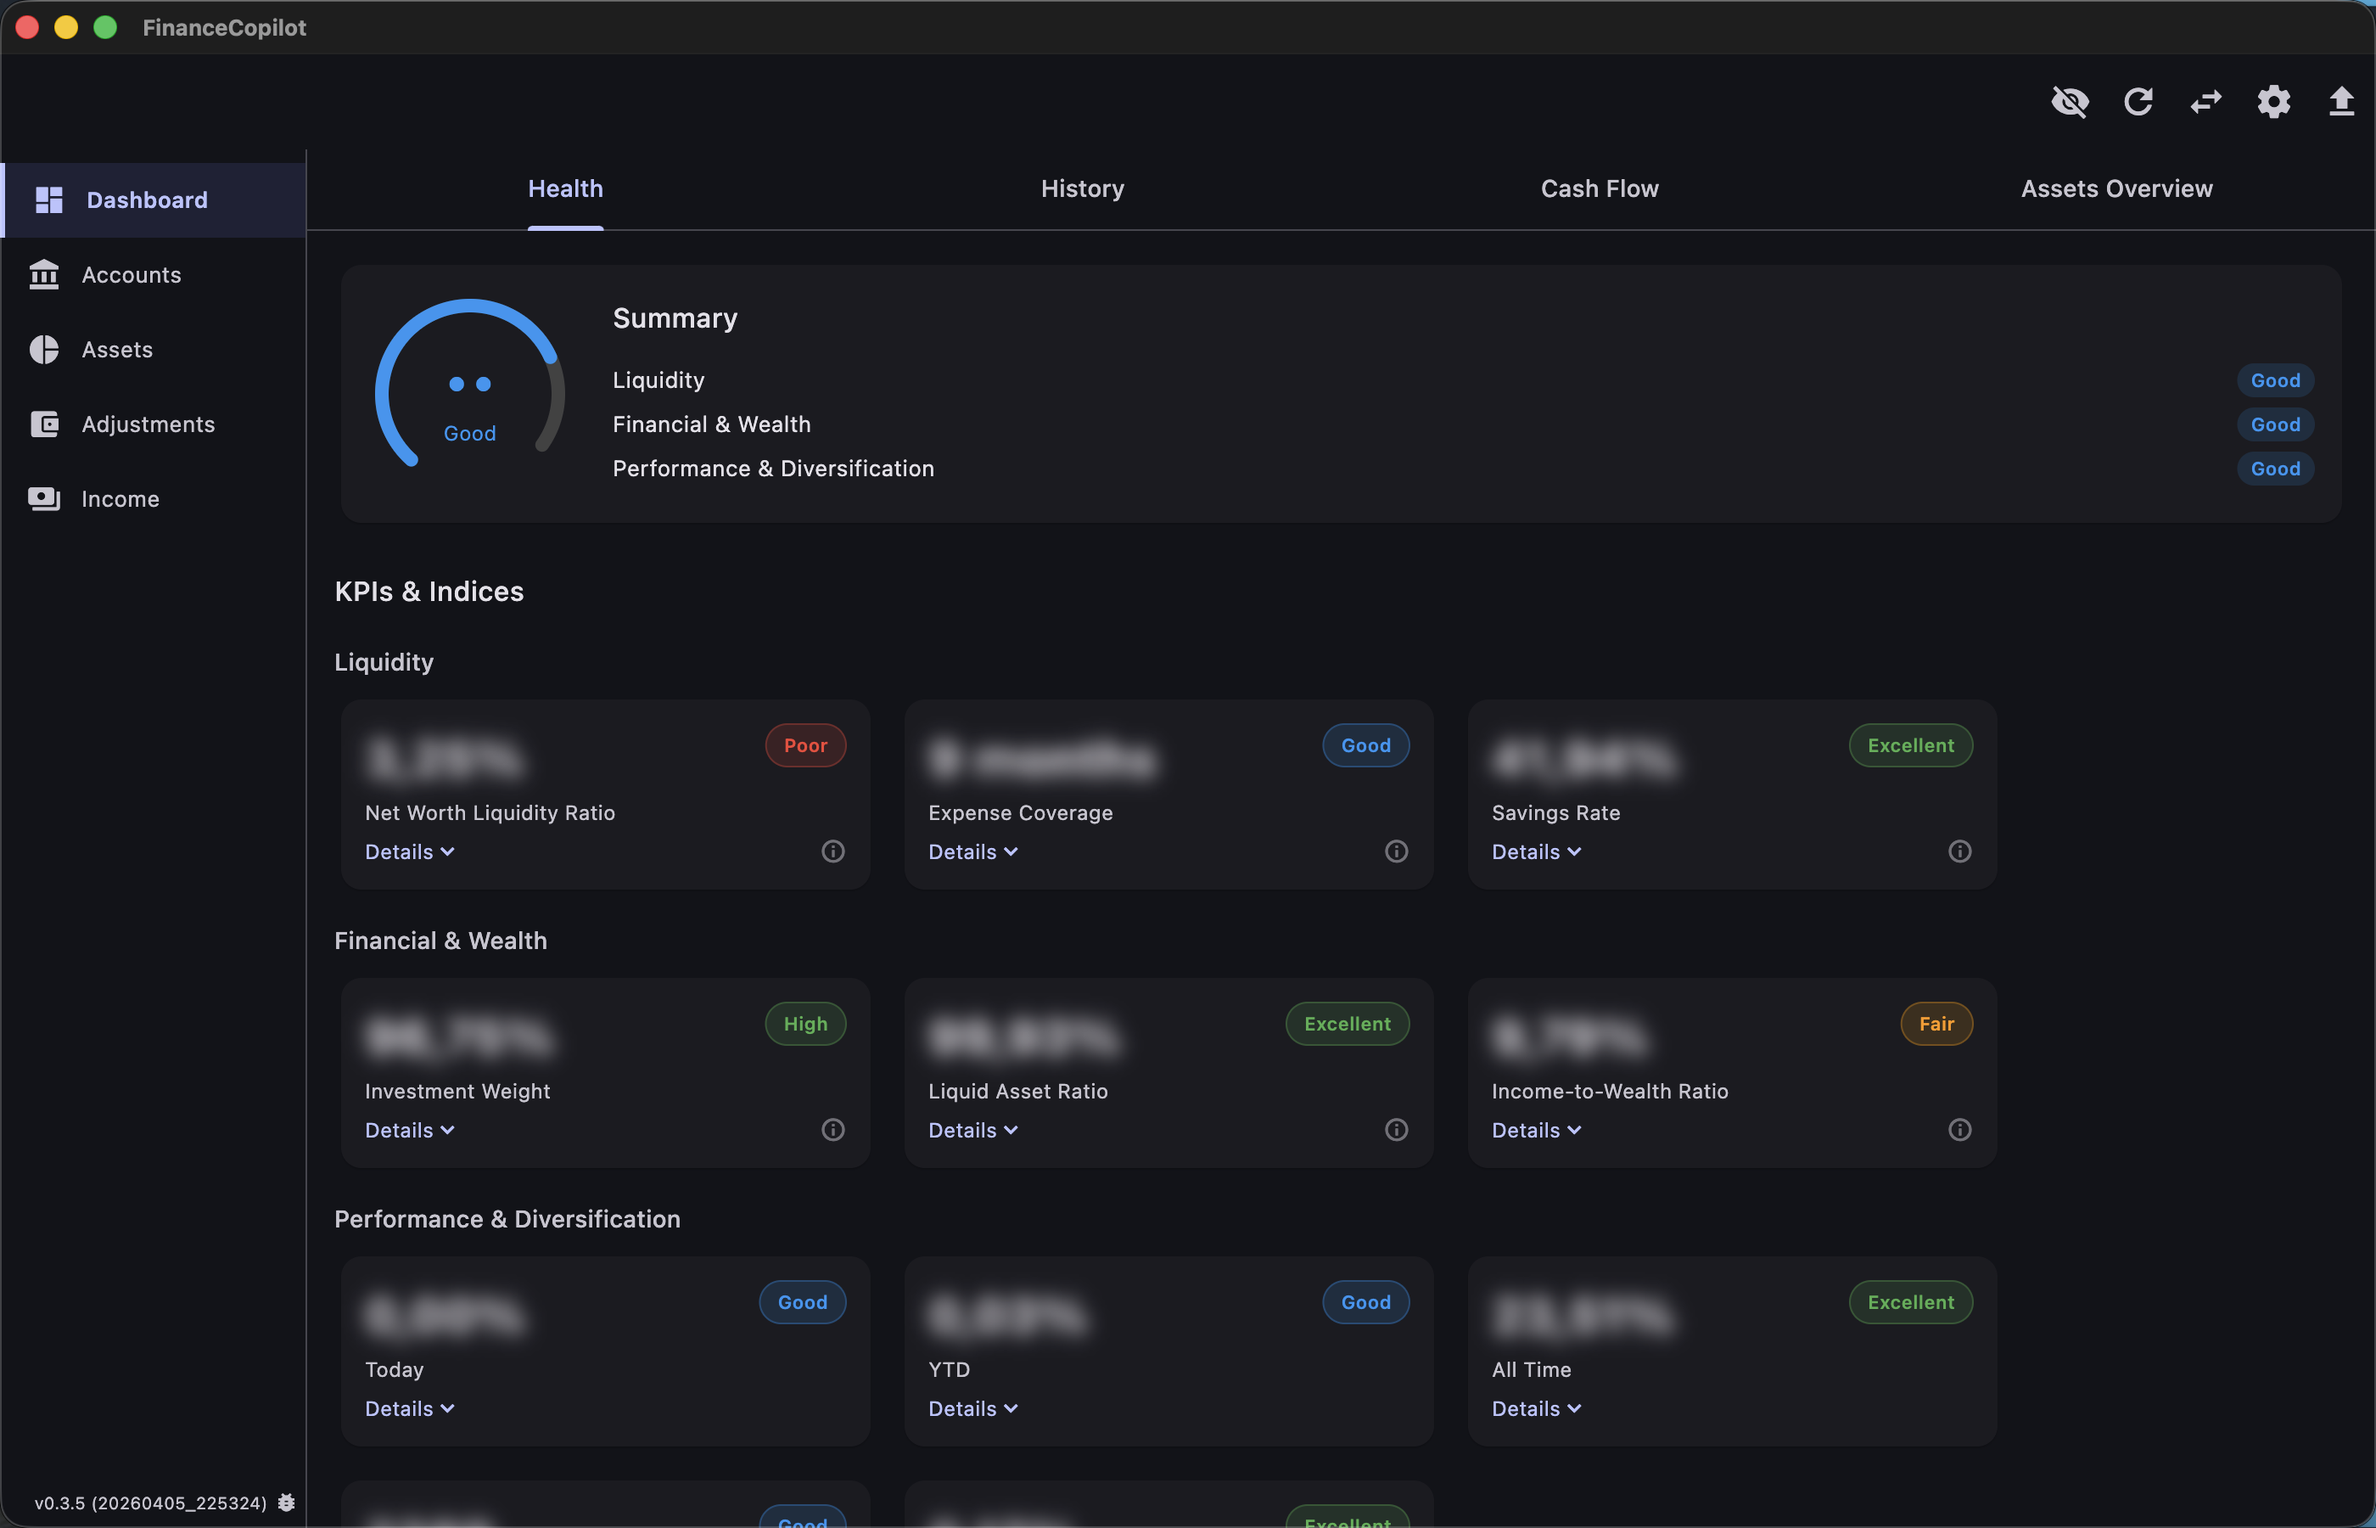
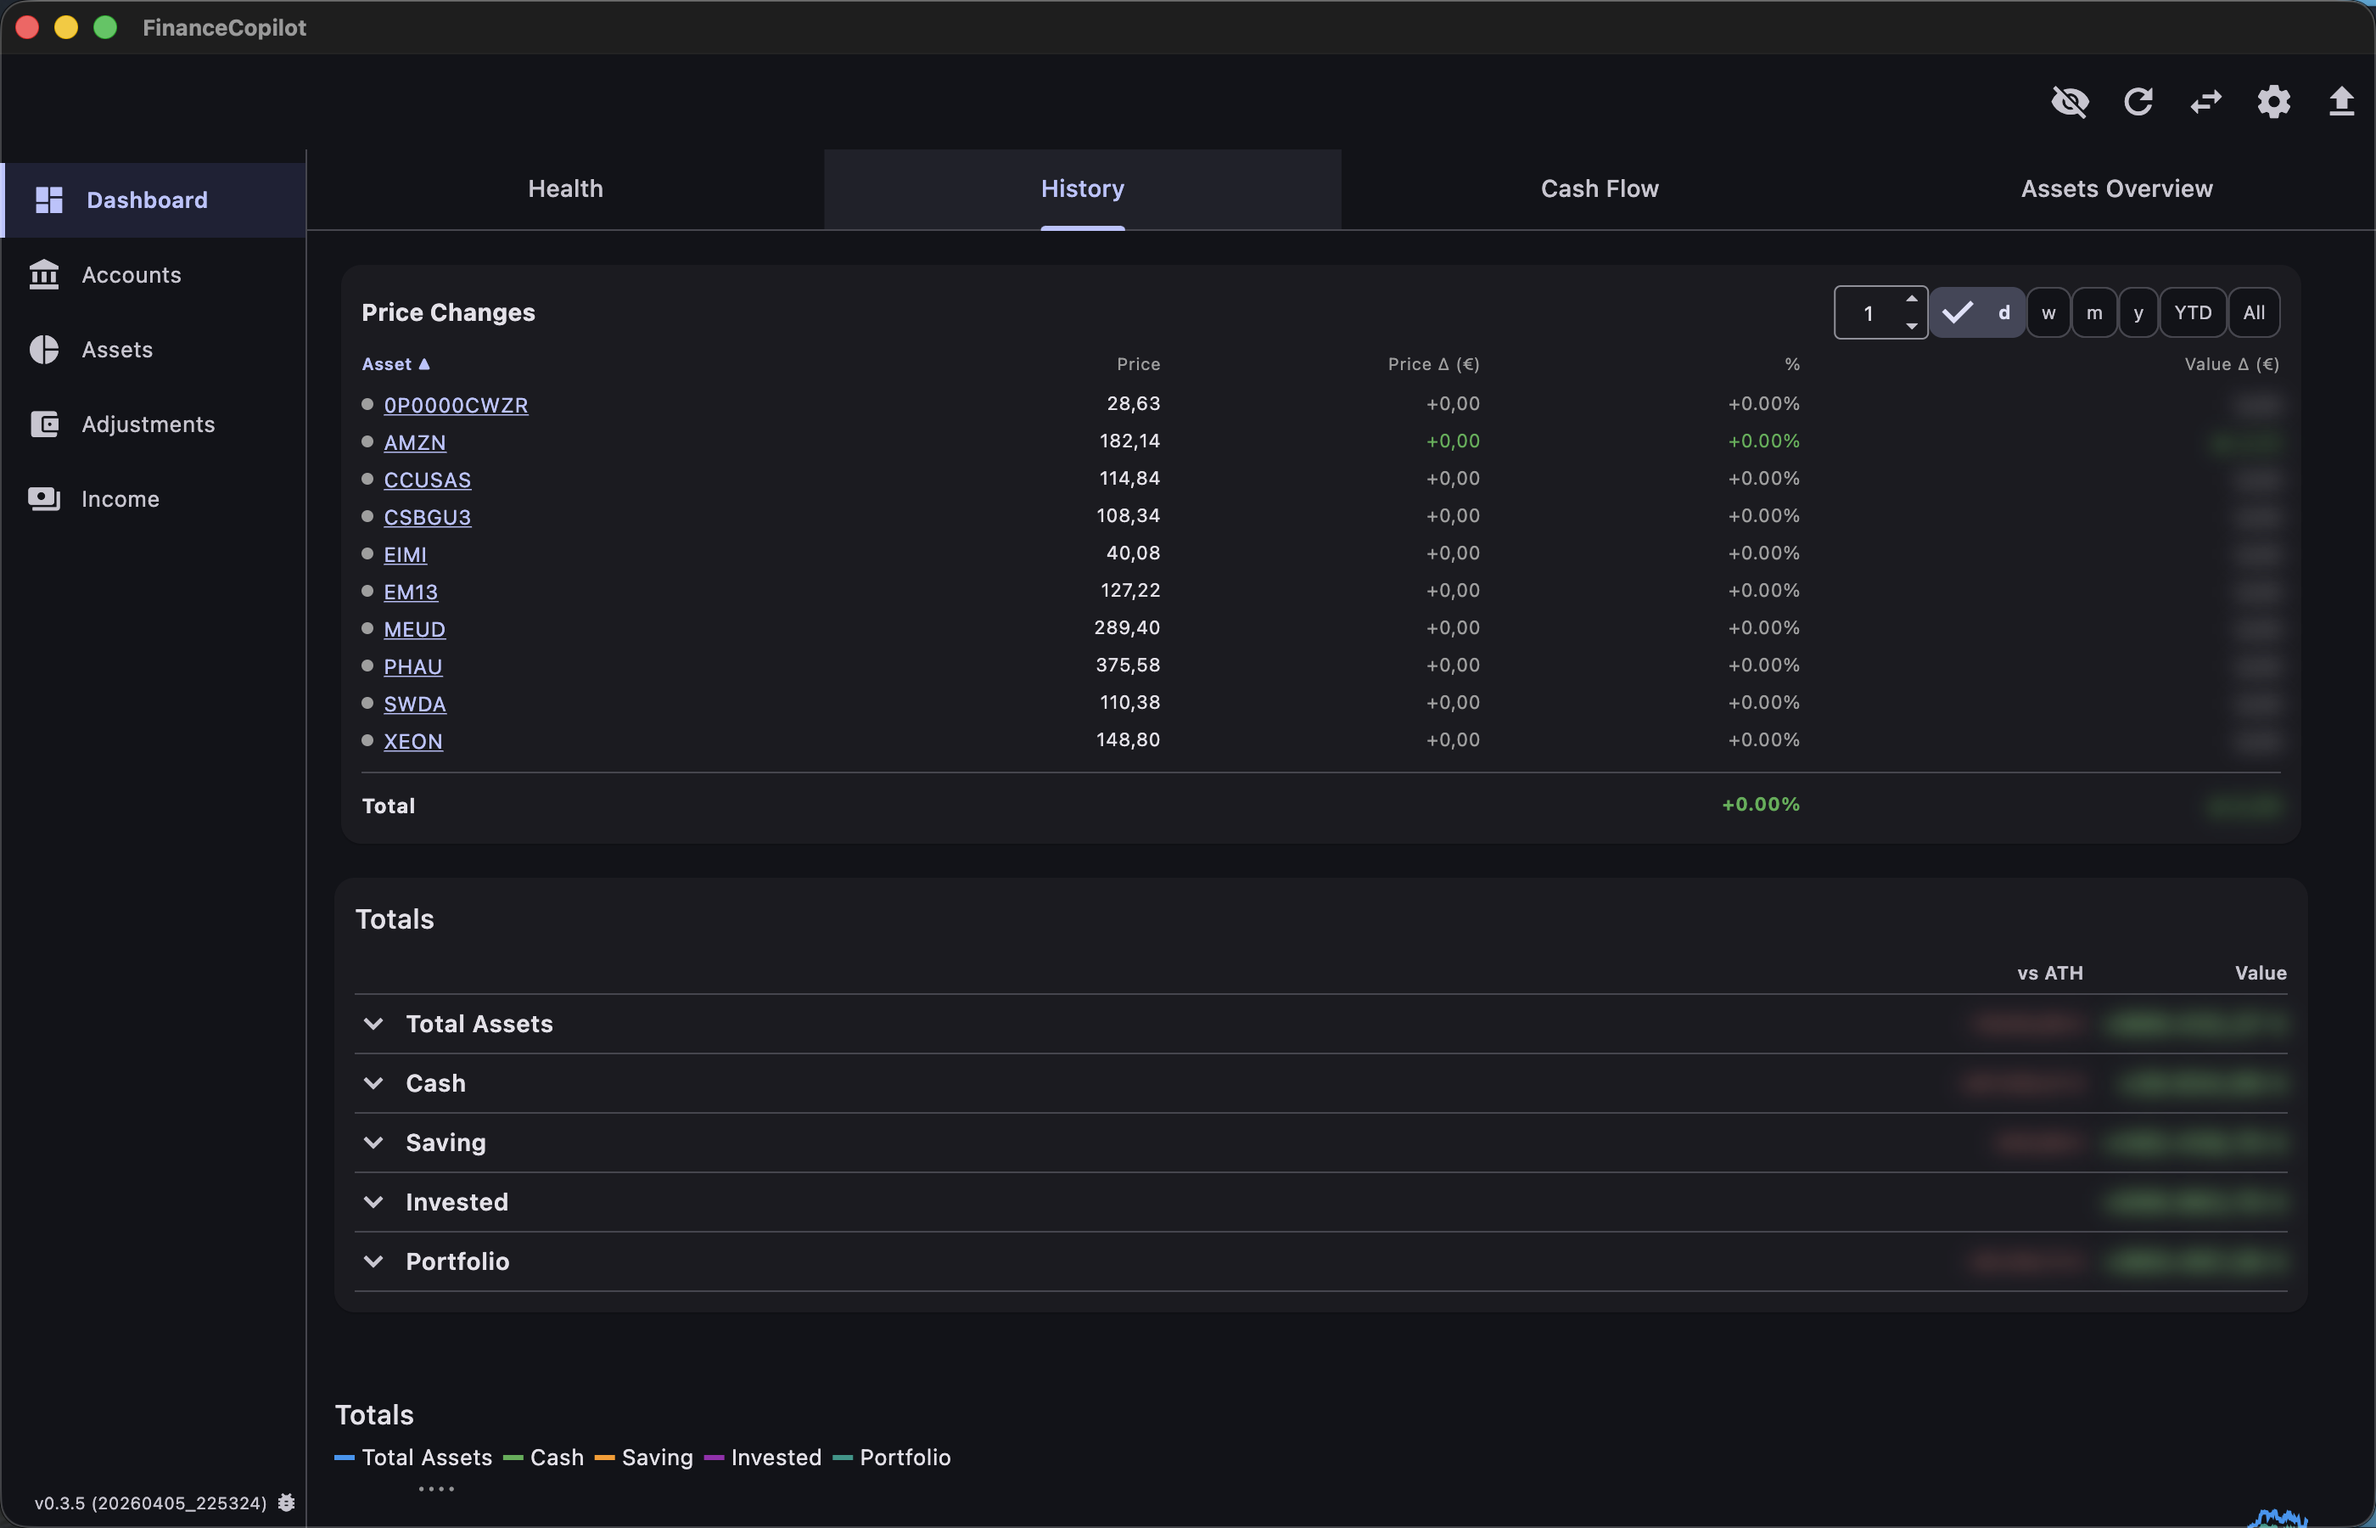
Update README screenshots: all 4 dashboard tabs, assets list

diff --git a/README.md b/README.md
@@ -6,28 +6,38 @@ Runs on **macOS**, **Windows**, and **Android**. All data stays local in SQLite.
 
 ## Screenshots
 
-### Financial Health Dashboard
-KPI scoring across Liquidity, Wealth, and Diversification categories with overall health gauge. Each indicator has an info button showing the formula with actual values. Performance tracking with price changes across multiple periods.
+### Financial Health
+KPI scoring across Liquidity, Wealth, and Diversification categories with overall health gauge. Each indicator has an info button showing the formula with actual values.
 
 ![Health](docs/screenshots/health.png)
 
+### History & Price Changes
+Price changes table with period selector (1D/1W/1M/3M/6M/1Y/YTD/All), combined Totals chart, and drill-down per asset/account.
+
+![Dashboard](docs/screenshots/dashboard.png)
+
+### Cash Flow
+Saving vs moving average with diff overlay, expenses tracking, and YoY comparison charts.
+
+![Cash Flow](docs/screenshots/cashflow.png)
+
 ### Portfolio Allocation
-Geographic, sector, asset class, instrument type, currency exposure, top holdings, and concentration risk (HHI). All aggregated from composition data fetched automatically from justETF and stockanalysis.com. Click any slice to drill down. Investment costs table with weighted TER tracking.
+Geographic, sector, asset class, and instrument type donut charts. All aggregated from composition data fetched automatically from justETF and stockanalysis.com.
 
 ![Allocation](docs/screenshots/allocation.png)
 
 ### Assets
-All your holdings in one view — grouped by intermediary, with live prices, event counts, and performance indicators.
+All your holdings grouped by intermediary, with live prices, event counts, and performance indicators.
 
 ![Assets](docs/screenshots/assets.png)
 
 ### Asset Detail
-Per-asset view with ticker, ISIN, exchange, and full event history (buy, sell, revalue). Composition breakdown by geography, sector, and top holdings with source attribution.
+Per-asset view with ticker, ISIN, exchange, and full event history (buy, sell, revalue). Composition breakdown by geography, sector, and top holdings.
 
 ![Asset Detail](docs/screenshots/asset_detail.png)
 
 ### Import
-Flexible column mapping for any bank or broker CSV/Excel export. Map columns once, save the config per account — every future import just works. ISIN-based exchange picker with per-asset exclude checkbox. Supports balance-diff mode, multi-column amounts, and status filtering.
+Flexible column mapping for any bank or broker CSV/Excel export. ISIN-based exchange picker with per-asset exclude checkbox.
 
 ![Import](docs/screenshots/import.png)
 
